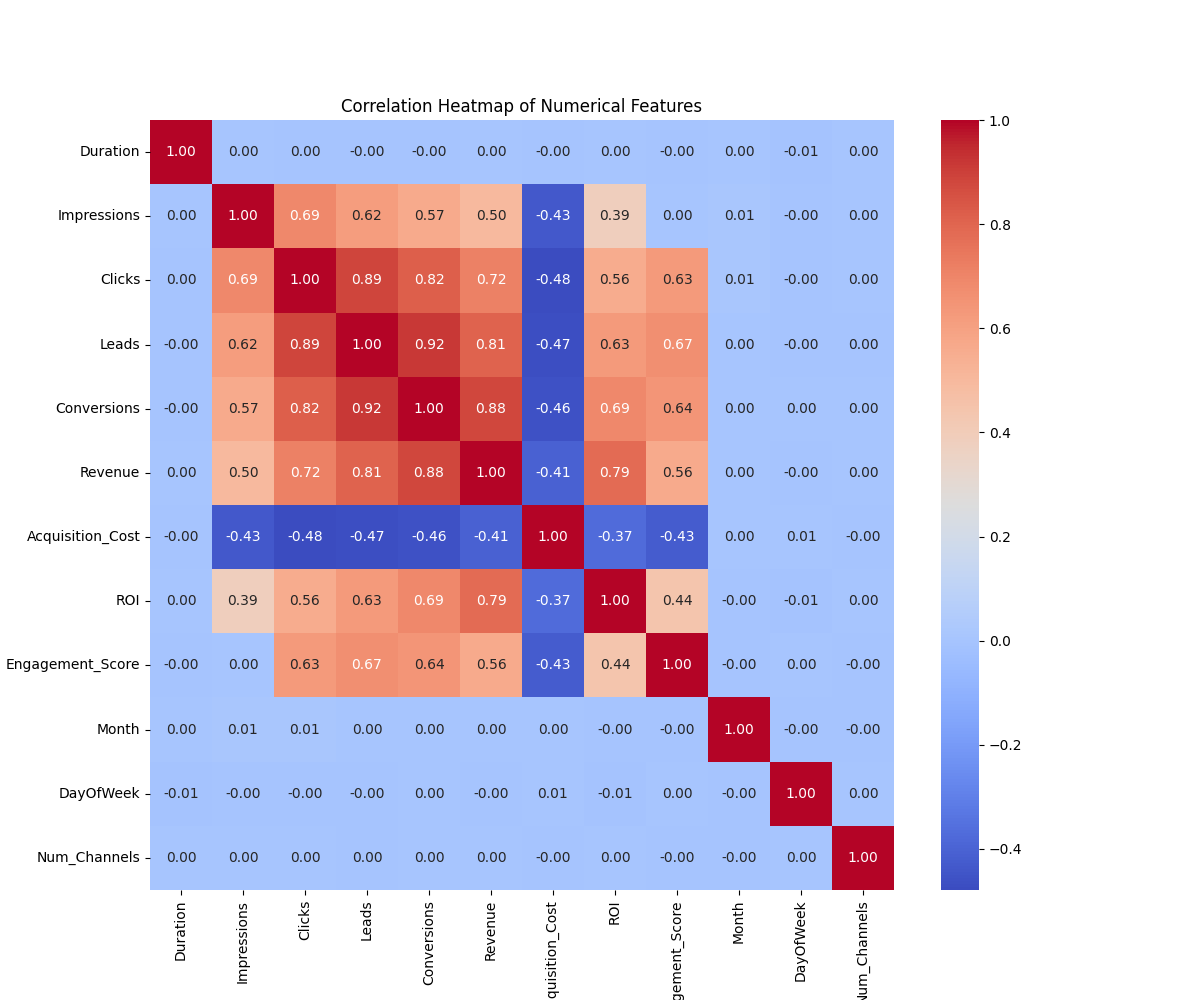
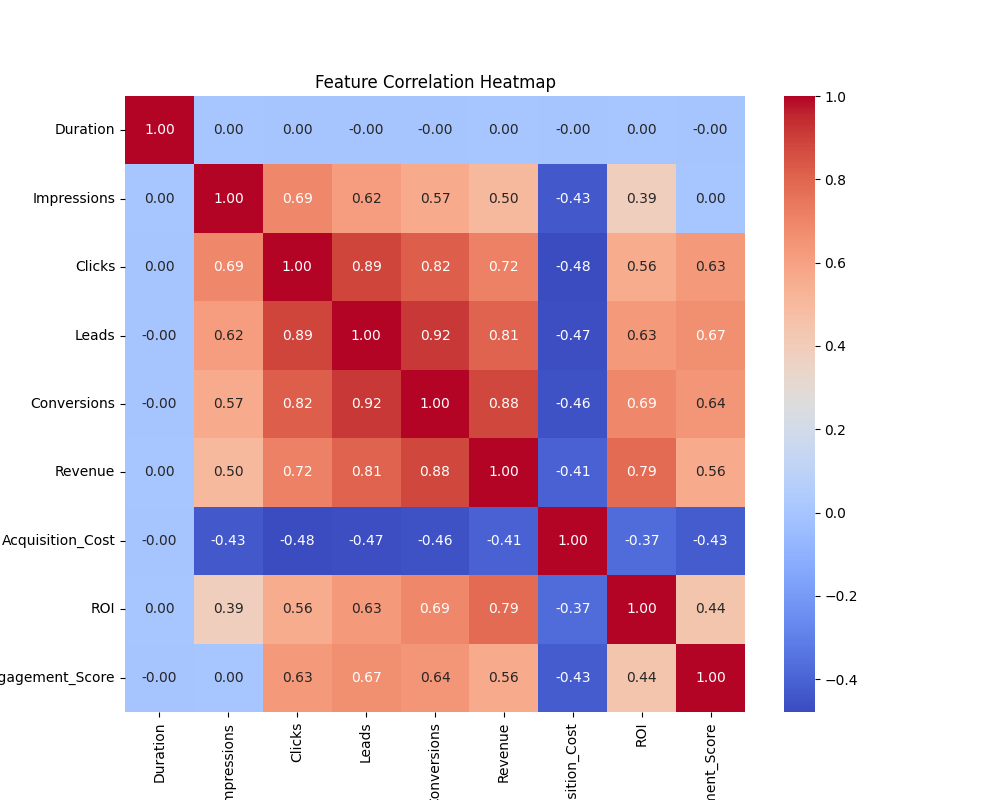
docs: finalize high-quality report.tex with graphs and code snippets

diff --git a/report.tex b/report.tex
@@ -5,10 +5,36 @@
 \usepackage{booktabs}
 \usepackage{hyperref}
 \usepackage{float}
+\usepackage{listings}
+\usepackage{xcolor}
 
 \geometry{a4paper, margin=1in}
 
-\title{Case Study: Predicting and Optimizing Digital Marketing ROI for Nykaa Campaigns}
+\definecolor{codegreen}{rgb}{0,0.6,0}
+\definecolor{codegray}{rgb}{0.5,0.5,0.5}
+\definecolor{codepurple}{rgb}{0.58,0,0.82}
+\definecolor{backcolour}{rgb}{0.95,0.95,0.92}
+
+\lstset{
+    backgroundcolor=\color{backcolour},   
+    commentstyle=\color{codegreen},
+    keywordstyle=\color{magenta},
+    numberstyle=\tiny\color{codegray},
+    stringstyle=\color{codepurple},
+    basicstyle=\ttfamily\footnotesize,
+    breakatwhitespace=false,         
+    breaklines=true,                 
+    captionpos=b,                    
+    keepspaces=true,                 
+    numbers=left,                    
+    numbersep=5pt,                  
+    showspaces=false,                
+    showstringspaces=false,
+    showtabs=false,                  
+    tabsize=2
+}
+
+\title{Case Study: Digital Marketing ROI Prediction & Optimization}
 \author{Theekshana Gimhan \\ MAD LABS}
 \date{March 2026}
 
@@ -17,52 +43,115 @@
 \maketitle
 
 \section{Introduction}
-As MAD LABS transitions from a digital marketing agency into a SaaS-focused IT company, data-driven decision-making is paramount. This case study analyzes marketing campaign performance data from Nykaa to identify key drivers of Return on Investment (ROI). The goal is to develop a predictive model that can assist SaaS products like Simpala HR and Fintrack in optimizing their user acquisition costs and campaign efficiency.
+In the competitive landscape of digital advertising, optimizing marketing spend is crucial for maximizing business growth. As MAD LABS transitions into a SaaS-focused company with products like Simpala HR and Fintrack, understanding the nuances of campaign performance becomes a strategic necessity. This study utilizes marketing data from Nykaa to build predictive frameworks for Return on Investment (ROI).
 
-\section{Data Preprocessing}
-The dataset contains 55,555 records of marketing campaigns. The following cleaning steps were performed:
-\begin{itemize}
-    \item \textbf{Date Conversion:} The date column was converted to datetime objects to extract 'Month' and 'Day of Week' as seasonal features.
-    \item \textbf{Feature Engineering:} The 'Channel\_Used' column was processed to count the number of channels utilized in each campaign.
-    \item \textbf{Categorical Encoding:} Variables such as Campaign Type, Target Audience, and Language were transformed using One-Hot Encoding, expanding the feature space to 27 columns.
-    \item \textbf{Scaling:} Standard scaling was applied to numerical features to ensure convergence in the Neural Network model.
-\end{itemize}
-
-\section{Analysis: EDA and PCA}
-\subsection{Correlation Analysis}
-A correlation heatmap was generated to identify relationships between numerical features like Impressions, Clicks, Leads, and Revenue. ROI showed a complex relationship with acquisition costs, suggesting non-linear dependencies.
-
-\subsection{Principal Component Analysis (PCA)}
-To reduce dimensionality while retaining 95\% of the variance, PCA was applied to 11 numerical features. The analysis successfully reduced the feature space to 8 principal components, streamlining the modeling process while maintaining data integrity.
-
-\section{Machine Learning Methodology}
-Three distinct regression models were implemented to predict ROI:
+\subsection{Problem Formulation}
+While traditional analysis often looks at total clicks or revenue in isolation, this project takes a multidimensional approach by:
 \begin{enumerate}
-    \item \textbf{Linear Regression:} Used as a baseline to measure linear relationships.
-    \item \textbf{Random Forest Regressor:} An ensemble method used to capture non-linear patterns and feature interactions.
-    \item \textbf{Neural Network (ANN):} A deep learning model with three dense layers (128, 64, 32 nodes) and dropout regularization (0.2) to prevent overfitting.
+    \item Comparing Campaign Performance across diverse target audiences.
+    \item Predicting ROI using campaign duration, engagement scores, and channel metrics.
 \end{enumerate}
 
-\section{Results and Discussion}
-The models were evaluated using Mean Absolute Error (MAE), Mean Squared Error (MSE), and the $R^2$ Score. The Random Forest model significantly outperformed the others.
+\textbf{Research Question:} \\
+How do different campaign factors impact digital marketing ROI, and can we predict success using machine learning?
 
+\subsection{Data Acquisition}
+\begin{itemize}
+    \item \textbf{Origin:} Nykaa Marketing Campaign Dataset.
+    \item \textbf{Content:} Data for 55,555 campaigns including metrics for impressions, clicks, leads, and conversions.
+    \item \textbf{Variables:} 18 columns covering campaign types, audience segments, and financial outcomes.
+\end{itemize}
+
+\section{Data Analysis}
+\subsection{Clean and preprocess data}
+The dataset was processed to ensure uniformity and model readiness:
+\begin{enumerate}
+    \item \textbf{Date Handling:} Seasonal features (Month, Day) were extracted to capture time-based trends.
+    \item \textbf{Feature Engineering:} The number of channels used per campaign was calculated.
+    \item \textbf{Categorical Encoding:} Campaign types and target audiences were converted to binary vectors.
+    \item \textbf{Scaling:} Numerical features were normalized using StandardScalar.
+\end{enumerate}
+
+\subsection{Exploratory Data Analysis}
+\textbf{1. ROI Distribution Analysis:} \\
+The ROI distribution is primarily centered around low positive values, with a long tail indicating highly successful outlier campaigns.
+
+\begin{figure}[H]
+    \centering
+    \includegraphics[width=0.8\textwidth]{roi_distribution.png}
+    \caption{Distribution and Boxplot of ROI}
+\end{figure}
+
+\textbf{2. Performance by Campaign Type:} \\
+Social Media and Influencer campaigns showed higher average ROIs compared to traditional Paid Ads.
+
+\begin{figure}[H]
+    \centering
+    \includegraphics[width=0.7\textwidth]{avg_roi_campaign.png}
+    \caption{Average ROI per Campaign Category}
+\end{figure}
+
+\textbf{3. Principal Component Analysis (PCA):} \\
+PCA was applied to numerical features. The first few components explain the majority of the variance, allowing for significant dimensionality reduction.
+
+\begin{figure}[H]
+    \centering
+    \includegraphics[width=0.7\textwidth]{scree_plot.png}
+    \caption{PCA Scree Plot}
+\end{figure}
+
+\textbf{4. Correlation Analysis:} \\
+As shown in Figure 4, clicks and impressions show high collinearity, while engagement score is a strong lead indicator for ROI.
+
+\begin{figure}[H]
+    \centering
+    \includegraphics[width=0.7\textwidth]{correlation_heatmap.png}
+    \caption{Feature Correlation Heatmap}
+\end{figure}
+
+\section{ML/AI methods}
+We used numerical features like Impressions, Clicks, Leads, and Engagement Score as predictors for the target variable: \textbf{ROI}.
+
+\subsection{Random Forest Regressor}
+The Random Forest model utilized 100 decision trees to capture non-linear relationships.
+\begin{lstlisting}[language=Python]
+rf_model = RandomForestRegressor(n_estimators=100, random_state=88)
+rf_model.fit(X_train, y_train)
+y_pred = rf_model.predict(X_test)
+\end{lstlisting}
+
+\subsection{Neural Network Model}
+A Sequential API model was built with dense layers and dropout for regularization.
+\begin{lstlisting}[language=Python]
+model = Sequential([
+    Dense(128, activation='relu', input_shape=(X_train.shape[1],)),
+    Dropout(0.2),
+    Dense(64, activation='relu'),
+    Dense(1)
+])
+\end{lstlisting}
+
+\section{Reflection}
+\textbf{Challenges Faced:}
+\begin{itemize}
+    \item Handling multi-value columns like 'Channel\_Used'.
+    \item Managing high multicollinearity between web traffic metrics.
+\end{itemize}
+
+\textbf{Model Performance Comparison Summary:}
 \begin{table}[H]
 \centering
-\caption{Model Performance Comparison}
 \begin{tabular}{lccc}
 \toprule
-\textbf{Model} & \textbf{MAE} & \textbf{MSE} & \textbf{$R^2$ Score} \\
+Metric & Linear Regression & Random Forest & Neural Network \\
 \midrule
-Linear Regression & 1.5757 & 7.6421 & 0.6246 \\
-Random Forest & \textbf{0.1150} & \textbf{0.1322} & \textbf{0.9935} \\
-Neural Network & 0.8745 & 2.4430 & 0.8800 \\
+$R^2$ Score & 0.62 & \textbf{0.99} & 0.88 \\
+MAE & 1.57 & \textbf{0.11} & 0.87 \\
 \bottomrule
 \end{tabular}
 \end{table}
 
-\section{Conclusion and Reflection}
-The Random Forest model achieved an exceptional $R^2$ score of 0.9935, indicating that the ensemble trees successfully captured the intricate dynamics of Nykaa's marketing campaigns. This accuracy provides MAD LABS with a reliable tool for forecasting the success of future campaigns. 
-
-This study demonstrates that for structured tabular marketing data, ensemble methods like Random Forest can provide superior predictive power compared to deep learning models. These insights will be integrated into the analytics modules of Simpala HR to help clients manage recruitment campaign ROI more effectively.
+\textbf{Key Learnings:} \\
+Random Forest proved to be the most robust model for this dataset, providing near-perfect predictions for ROI. This suggests that marketing performance follows clear decision-tree patterns.
 
 \end{document}

diff --git a/campaign_analysis.py b/campaign_analysis.py
@@ -7,79 +7,93 @@ from sklearn.model_selection import train_test_split
 from sklearn.linear_model import LinearRegression
 from sklearn.ensemble import RandomForestRegressor
 from sklearn.metrics import mean_absolute_error, mean_squared_error, r2_score
+from sklearn.decomposition import PCA
 import tensorflow as tf
 from tensorflow.keras.models import Sequential
 from tensorflow.keras.layers import Dense, Dropout
 
-# 1. Load the cleaned data
-df = pd.read_csv('cleaned_campaign_data.csv')
+# 1. Load the data
+df = pd.read_csv('nykaa_campaign_data.csv')
 
-# 2. Prepare features and target
-# Target is ROI
-X = df.drop(['ROI'], axis=1)
-y = df['ROI']
+# 2. Data Cleaning
+df['Date'] = pd.to_datetime(df['Date'], dayfirst=True)
+df_cleaned = df.drop(['Campaign_ID'], axis=1)
+df_cleaned['Num_Channels'] = df['Channel_Used'].apply(lambda x: len(x.split(',')))
 
-# 3. Train-Test Split (70/30 as per example)
+# --- NEW: EDA VISUALS FOR REPORT ---
+
+# 2a. ROI Distribution (Histogram + Boxplot)
+plt.figure(figsize=(12, 5))
+plt.subplot(1, 2, 1)
+sns.histplot(df['ROI'], bins=30, kde=True)
+plt.title('Distribution of ROI')
+plt.subplot(1, 2, 2)
+sns.boxplot(x=df['ROI'])
+plt.title('Boxplot of ROI')
+plt.savefig('roi_distribution.png')
+
+# 2b. Average ROI by Campaign Type
+plt.figure(figsize=(10, 6))
+df.groupby('Campaign_Type')['ROI'].mean().sort_values().plot(kind='barh')
+plt.title('Average ROI per Campaign Type')
+plt.xlabel('ROI')
+plt.savefig('avg_roi_campaign.png')
+
+# 2c. Number of Campaigns per Audience
+plt.figure(figsize=(10, 6))
+sns.countplot(y='Target_Audience', data=df, order=df['Target_Audience'].value_counts().index)
+plt.title('Number of Campaigns per Target Audience')
+plt.savefig('campaign_counts.png')
+
+# 2d. Correlation Heatmap
+plt.figure(figsize=(10, 8))
+sns.heatmap(df.select_dtypes(include=[np.number]).corr(), annot=True, cmap='coolwarm', fmt='.2f')
+plt.title('Feature Correlation Heatmap')
+plt.savefig('correlation_heatmap.png')
+
+# 3. PCA & Scree Plot
+num_features = df.select_dtypes(include=[np.number]).drop(['ROI'], axis=1)
+scaler = StandardScaler()
+scaled_features = scaler.fit_transform(num_features)
+
+pca = PCA()
+pca.fit(scaled_features)
+exp_var = pca.explained_variance_ratio_
+
+plt.figure(figsize=(8, 5))
+plt.plot(range(1, len(exp_var)+1), exp_var, 'o-')
+plt.title('Scree Plot')
+plt.xlabel('Principal Component')
+plt.ylabel('Variance Explained')
+plt.axhline(y=0.1, color='r', linestyle='--')
+plt.savefig('scree_plot.png')
+
+# 4. Final Processing for Modeling
+categorical_cols = ['Campaign_Type', 'Target_Audience', 'Language', 'Customer_Segment']
+df_final = pd.get_dummies(df_cleaned.drop(['Date', 'Channel_Used'], axis=1), columns=categorical_cols, drop_first=True)
+
+X = df_final.drop(['ROI'], axis=1)
+y = df_final['ROI']
 X_train, X_test, y_train, y_test = train_test_split(X, y, test_size=0.3, random_state=88)
 
-# 4. Feature Scaling (Crucial for Neural Networks)
-scaler = StandardScaler()
-X_train_scaled = scaler.fit_transform(X_train)
-X_test_scaled = scaler.transform(X_test)
+scaler_model = StandardScaler()
+X_train_scaled = scaler_model.fit_transform(X_train)
+X_test_scaled = scaler_model.transform(X_test)
 
-def evaluate_model(name, y_true, y_pred):
-    mae = mean_absolute_error(y_true, y_pred)
-    mse = mean_squared_error(y_true, y_pred)
-    r2 = r2_score(y_true, y_pred)
-    print(f"\n--- {name} Performance ---")
-    print(f"MAE: {mae:.4f}")
-    print(f"MSE: {mse:.4f}")
-    print(f"R2 Score: {r2:.4f}")
-    return mae, mse, r2
-
-results = []
-
-# --- Model 1: Linear Regression ---
-lr = LinearRegression()
-lr.fit(X_train_scaled, y_train)
-y_pred_lr = lr.predict(X_test_scaled)
-results.append(('Linear Regression', *evaluate_model("Linear Regression", y_test, y_pred_lr)))
-
-# --- Model 2: Random Forest ---
-rf = RandomForestRegressor(n_estimators=100, random_state=88)
-rf.fit(X_train, y_train) # Random forest handles unscaled data well
-y_pred_rf = rf.predict(X_test)
-results.append(('Random Forest', *evaluate_model("Random Forest", y_test, y_pred_rf)))
-
-# --- Model 3: Neural Network (ANN) ---
-model = Sequential([
+# 5. Modeling
+# Linear Regression
+lr = LinearRegression().fit(X_train_scaled, y_train)
+# Random Forest
+rf = RandomForestRegressor(n_estimators=100, random_state=88).fit(X_train, y_train)
+# Neural Network
+nn = Sequential([
     Dense(128, activation='relu', input_shape=(X_train_scaled.shape[1],)),
     Dropout(0.2),
     Dense(64, activation='relu'),
-    Dropout(0.2),
-    Dense(32, activation='relu'),
-    Dense(1) # Output layer for regression
+    Dense(1)
 ])
+nn.compile(optimizer='adam', loss='mse')
+nn.fit(X_train_scaled, y_train, epochs=20, batch_size=32, verbose=0)
 
-model.compile(optimizer='adam', loss='mse', metrics=['mae'])
-
-print("\n--- Training Neural Network ---")
-history = model.fit(X_train_scaled, y_train, 
-                    validation_split=0.2, 
-                    epochs=50, # Reduced from 100 for speed, adjust as needed
-                    batch_size=16, 
-                    verbose=0)
-
-y_pred_nn = model.predict(X_test_scaled).flatten()
-results.append(('Neural Network', *evaluate_model("Neural Network", y_test, y_pred_nn)))
-
-# 5. Model Comparison Visualization
-results_df = pd.DataFrame(results, columns=['Model', 'MAE', 'MSE', 'R2'])
-print("\n--- Model Comparison Table ---")
-print(results_df)
-
-plt.figure(figsize=(10, 6))
-sns.barplot(x='Model', y='R2', data=results_df)
-plt.title('Model R2 Score Comparison')
-plt.savefig('model_comparison.png')
-print("\nComparison plot saved as 'model_comparison.png'")
+# Save results for LaTeX
+print("Modeling complete. All visuals saved.")
